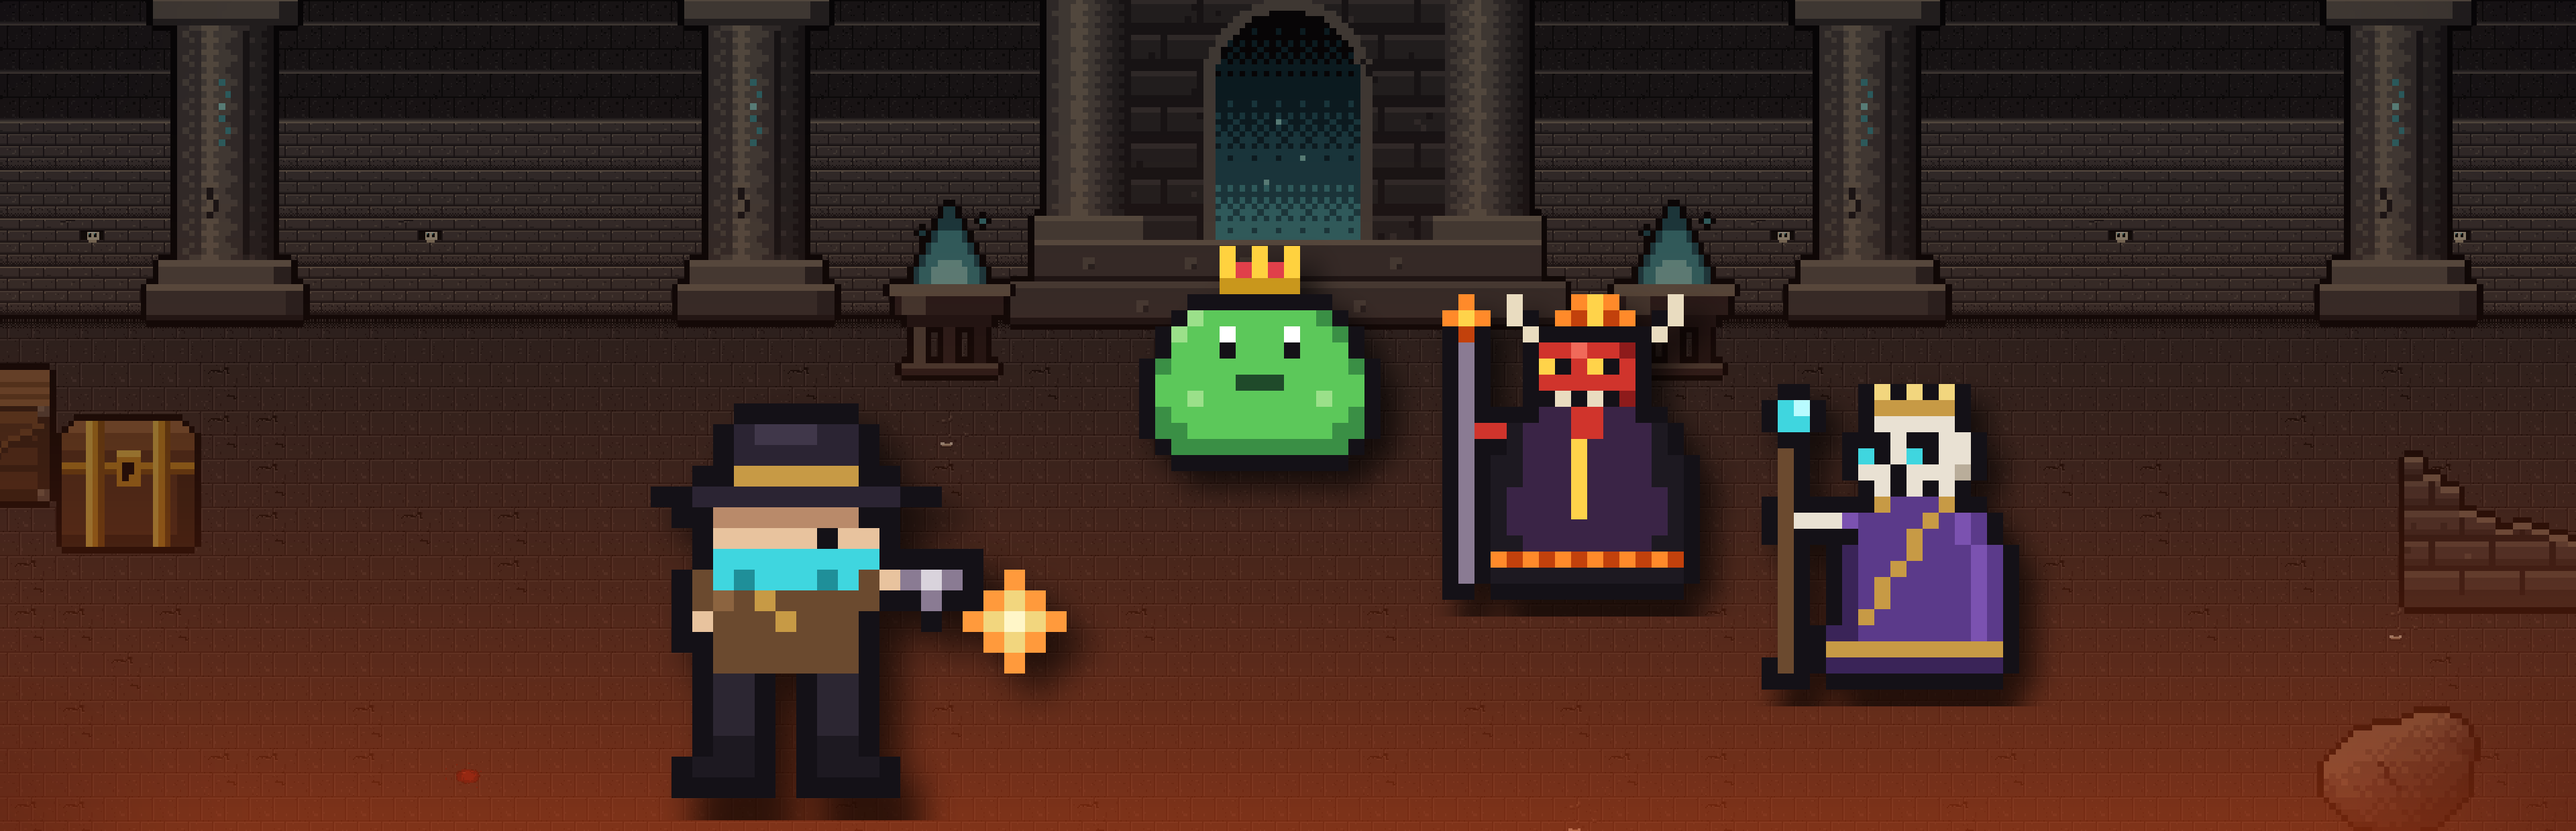
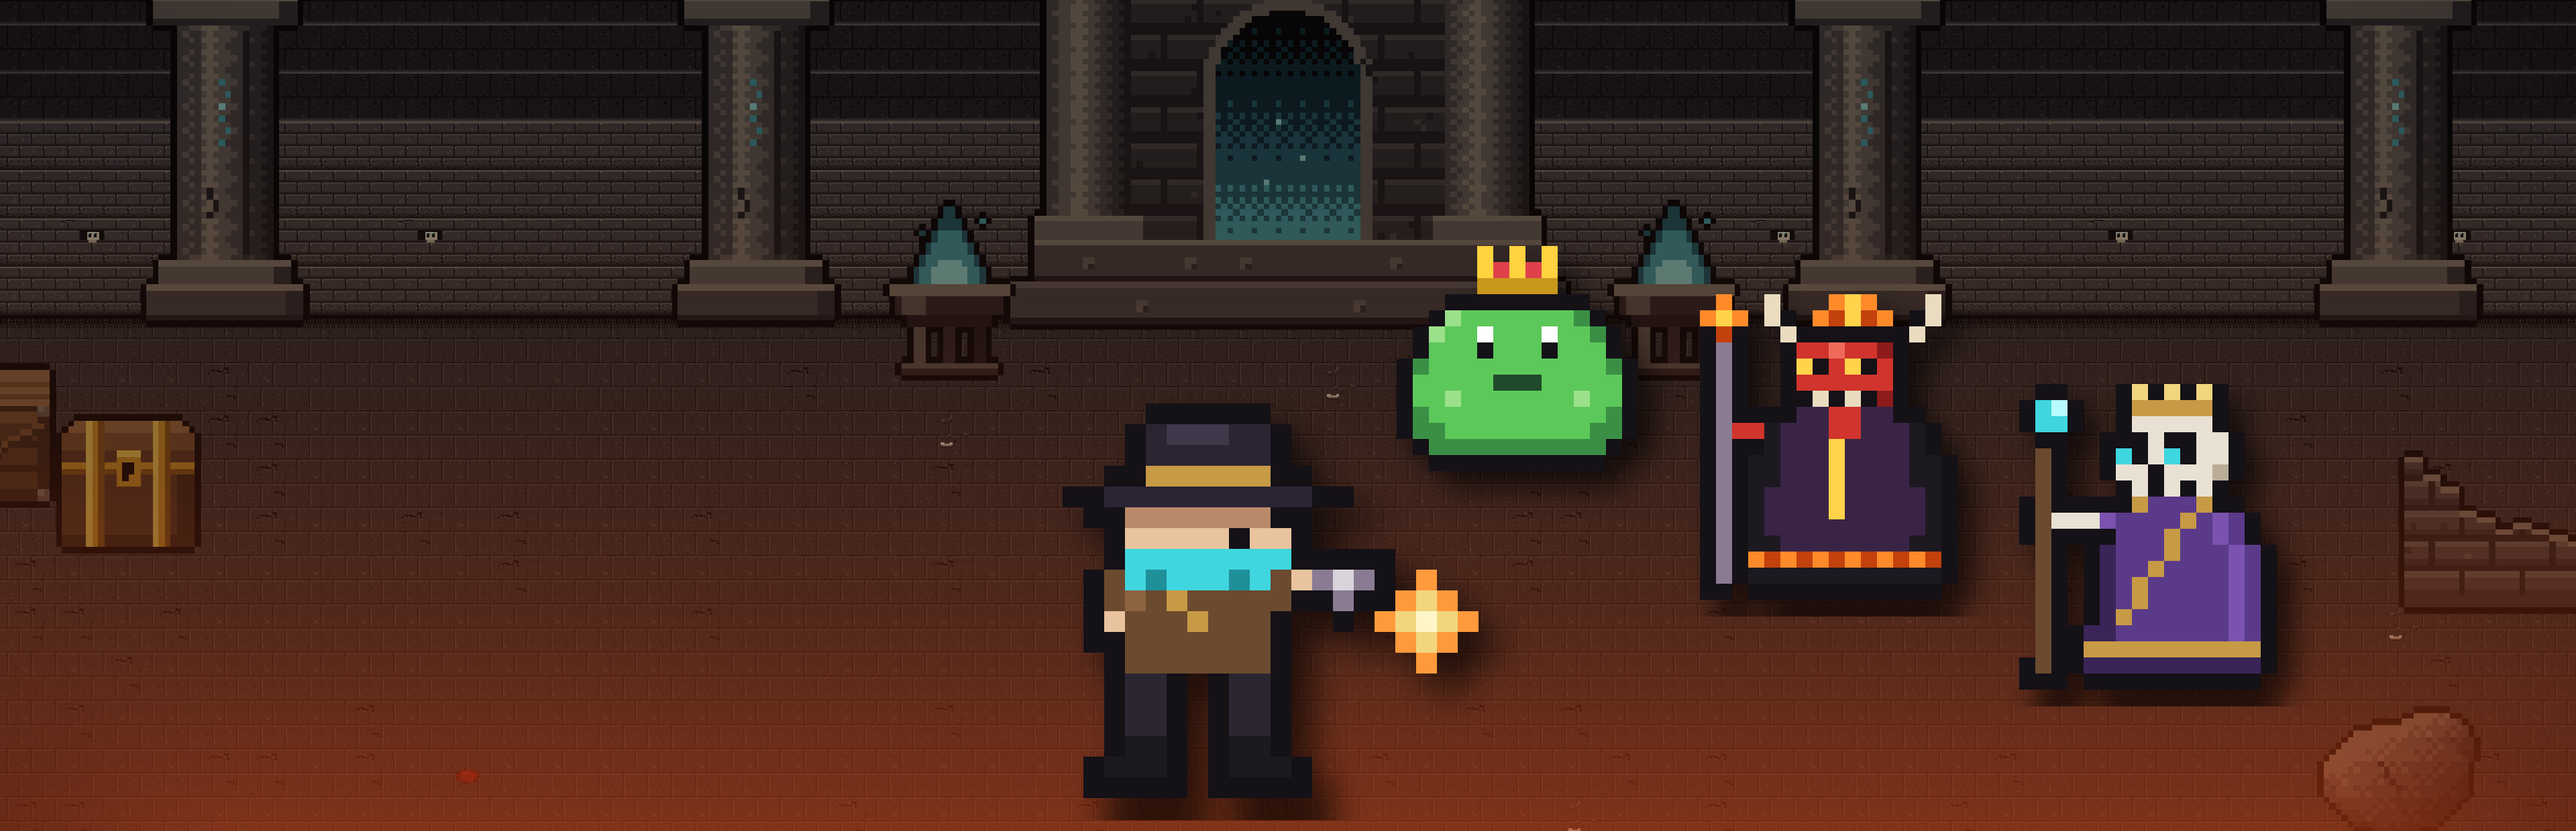
fix: 라이브러리 로고를 Steam 규격(가로 1280)의 두 줄 로고로 바꾸고, 히어로 이미지 캐릭터를 로고와 겹치지 않게 오른쪽으로 이동
Claude-Session: https://claude.ai/code/session_014AZQGKxAjGjxKckc3V6v8s

Changed region(s): [[0.25, 0.2758, 0.9062, 1.0]]

diff --git a/tools/steam_art/make_capsules.py b/tools/steam_art/make_capsules.py
@@ -101,9 +101,9 @@ def characters(canvas, w, h, has_title):
         bx = [int(w * 0.62), int(w * 0.42), int(w * 0.52)]
         by = [base_y - int(boss_scale * CELL * 0.55), base_y - int(boss_scale * CELL * 0.35), base_y + int(scale * 4)]
     else:
-        px = int(w * (0.06 if has_title else 0.18))
+        px = int(w * (0.06 if has_title else 0.34))
         paste(canvas, player, px, base_y)
-        right = w - int(w * (0.04 if has_title else 0.16))
+        right = w - int(w * (0.04 if has_title else 0.06))
         step = int(boss_scale * CELL * 0.62)
         bx = [right - boss_scale * CELL - step * 2, right - boss_scale * CELL - step, right - boss_scale * CELL]
         by = [base_y - int(boss_scale * 6), base_y - int(boss_scale * 3), base_y + int(scale * 2)]
@@ -131,12 +131,13 @@ def split_title(title, tall):
     return [" ".join(words[:best]), " ".join(words[best:])]
 
 
-def draw_title(canvas, title, w, h, top, height, one_line=False):
+def draw_title(canvas, title, w, h, top, height, one_line=False, lines=None, font=None):
     tall = h > w
-    lines = [title] if one_line else split_title(title, tall or len(title) > 14)
+    if lines is None:
+        lines = [title] if one_line else split_title(title, tall or len(title) > 14)
     line_h = height / len(lines)
     d = ImageDraw.Draw(canvas)
-    font = fit_font(max(lines, key=len), w * 0.9, line_h * 0.82)
+    font = font or fit_font(max(lines, key=len), w * 0.9, line_h * 0.82)
     outline = max(2, font.size // 12)
     y = top
     for line in lines:
@@ -165,9 +166,27 @@ def make(name, w, h, has_title, title):
 
 
 def make_logo(title, w=1280, h=720):
-    logo = Image.new("RGBA", (w, h), (0, 0, 0, 0))
-    draw_title(logo, title, w, h, h * 0.1, h * 0.8)
-    return logo.crop(logo.getbbox())
+    # Steam 라이브러리 로고 규격: 가로 1280 또는 세로 720, 배경 투명 PNG
+    words = title.split()
+    lines = [" ".join(words[:len(words) // 2]), " ".join(words[len(words) // 2:])] if len(words) > 1 else [title]
+    font = fit_font(max(lines, key=len), w - 40, h)
+    parts = []
+    for line in lines:
+        c = Image.new("RGBA", (w * 2, h), (0, 0, 0, 0))
+        draw_title(c, line, w * 2, h, 0, h, lines=[line], font=font)
+        parts.append(c.crop(c.getbbox()))
+    gap = font.size // 8
+    art = Image.new("RGBA", (max(p.width for p in parts), sum(p.height for p in parts) + gap * (len(parts) - 1)), (0, 0, 0, 0))
+    y = 0
+    for p in parts:
+        art.alpha_composite(p, ((art.width - p.width) // 2, y))
+        y += p.height + gap
+    if art.width > w or art.height > h:
+        s = min(w / art.width, h / art.height)
+        art = art.resize((int(art.width * s), int(art.height * s)), Image.LANCZOS)
+    logo = Image.new("RGBA", (w, art.height), (0, 0, 0, 0))
+    logo.alpha_composite(art, ((w - art.width) // 2, 0))
+    return logo
 
 
 def make_icon(grid=23):
